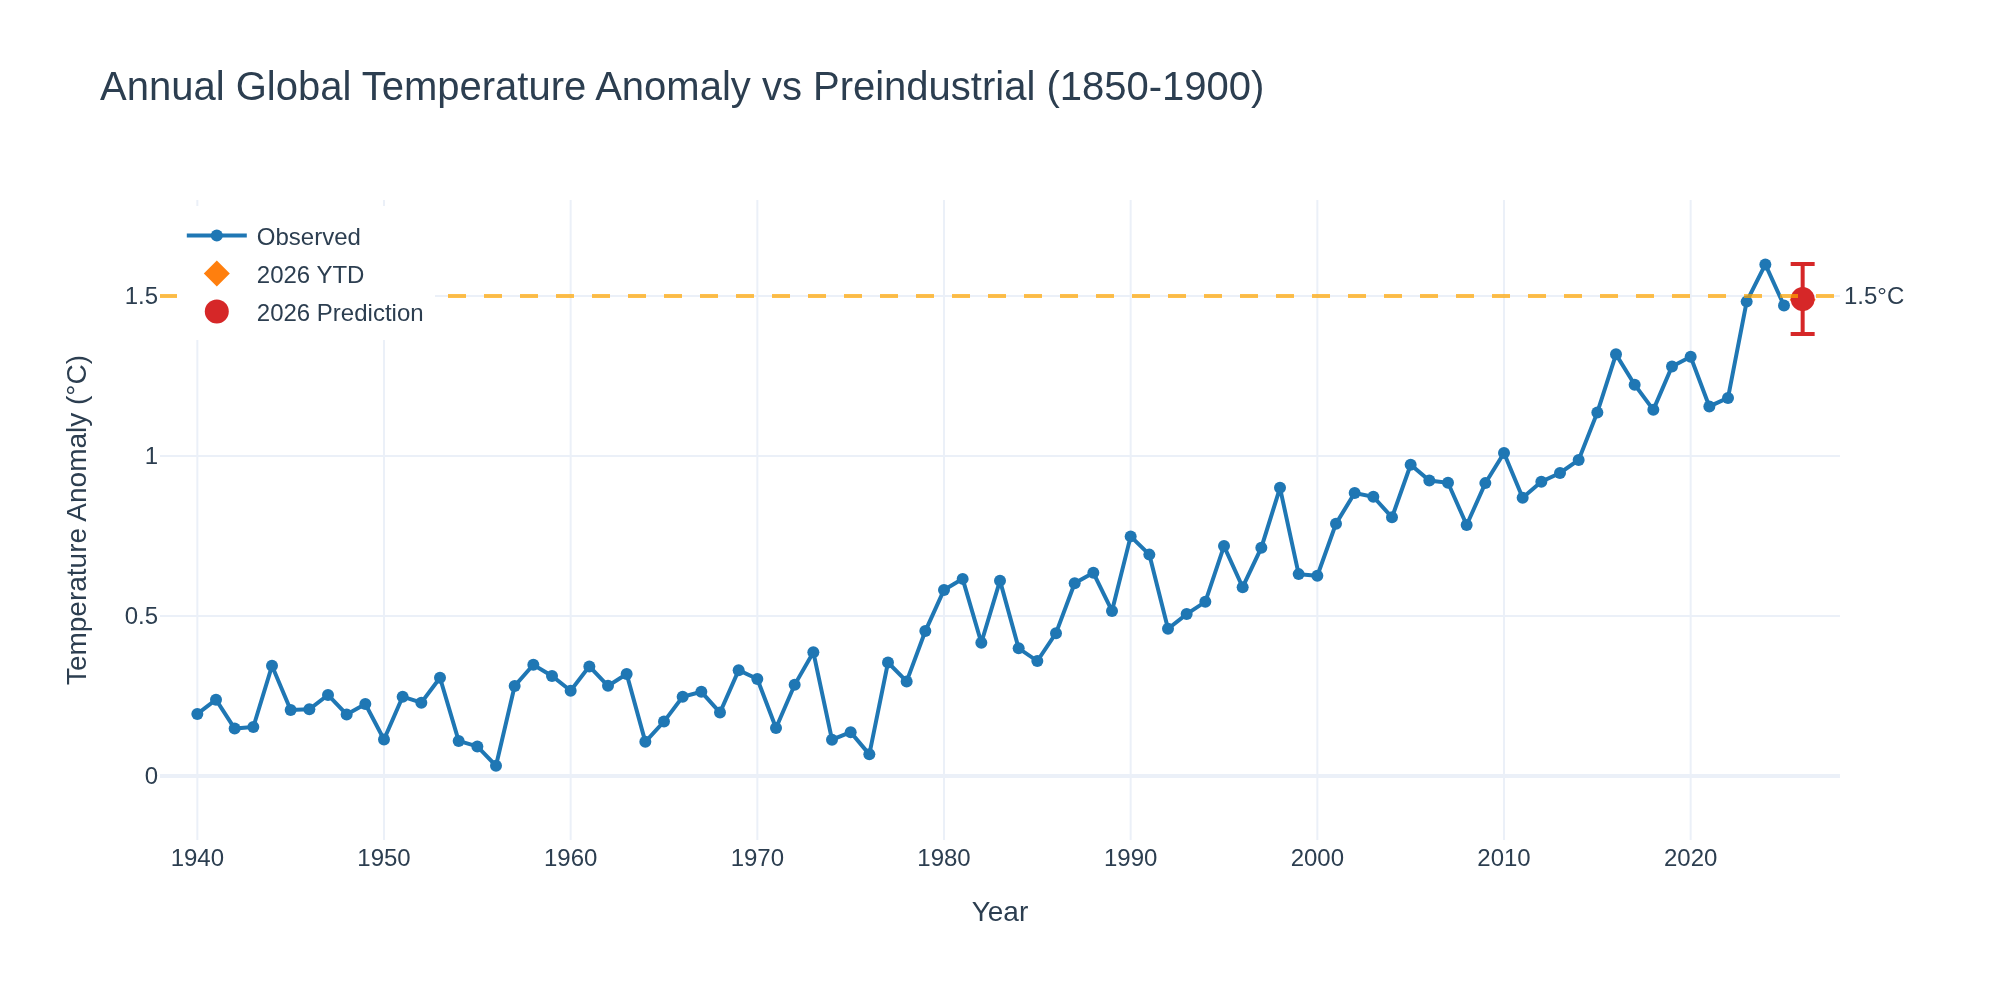
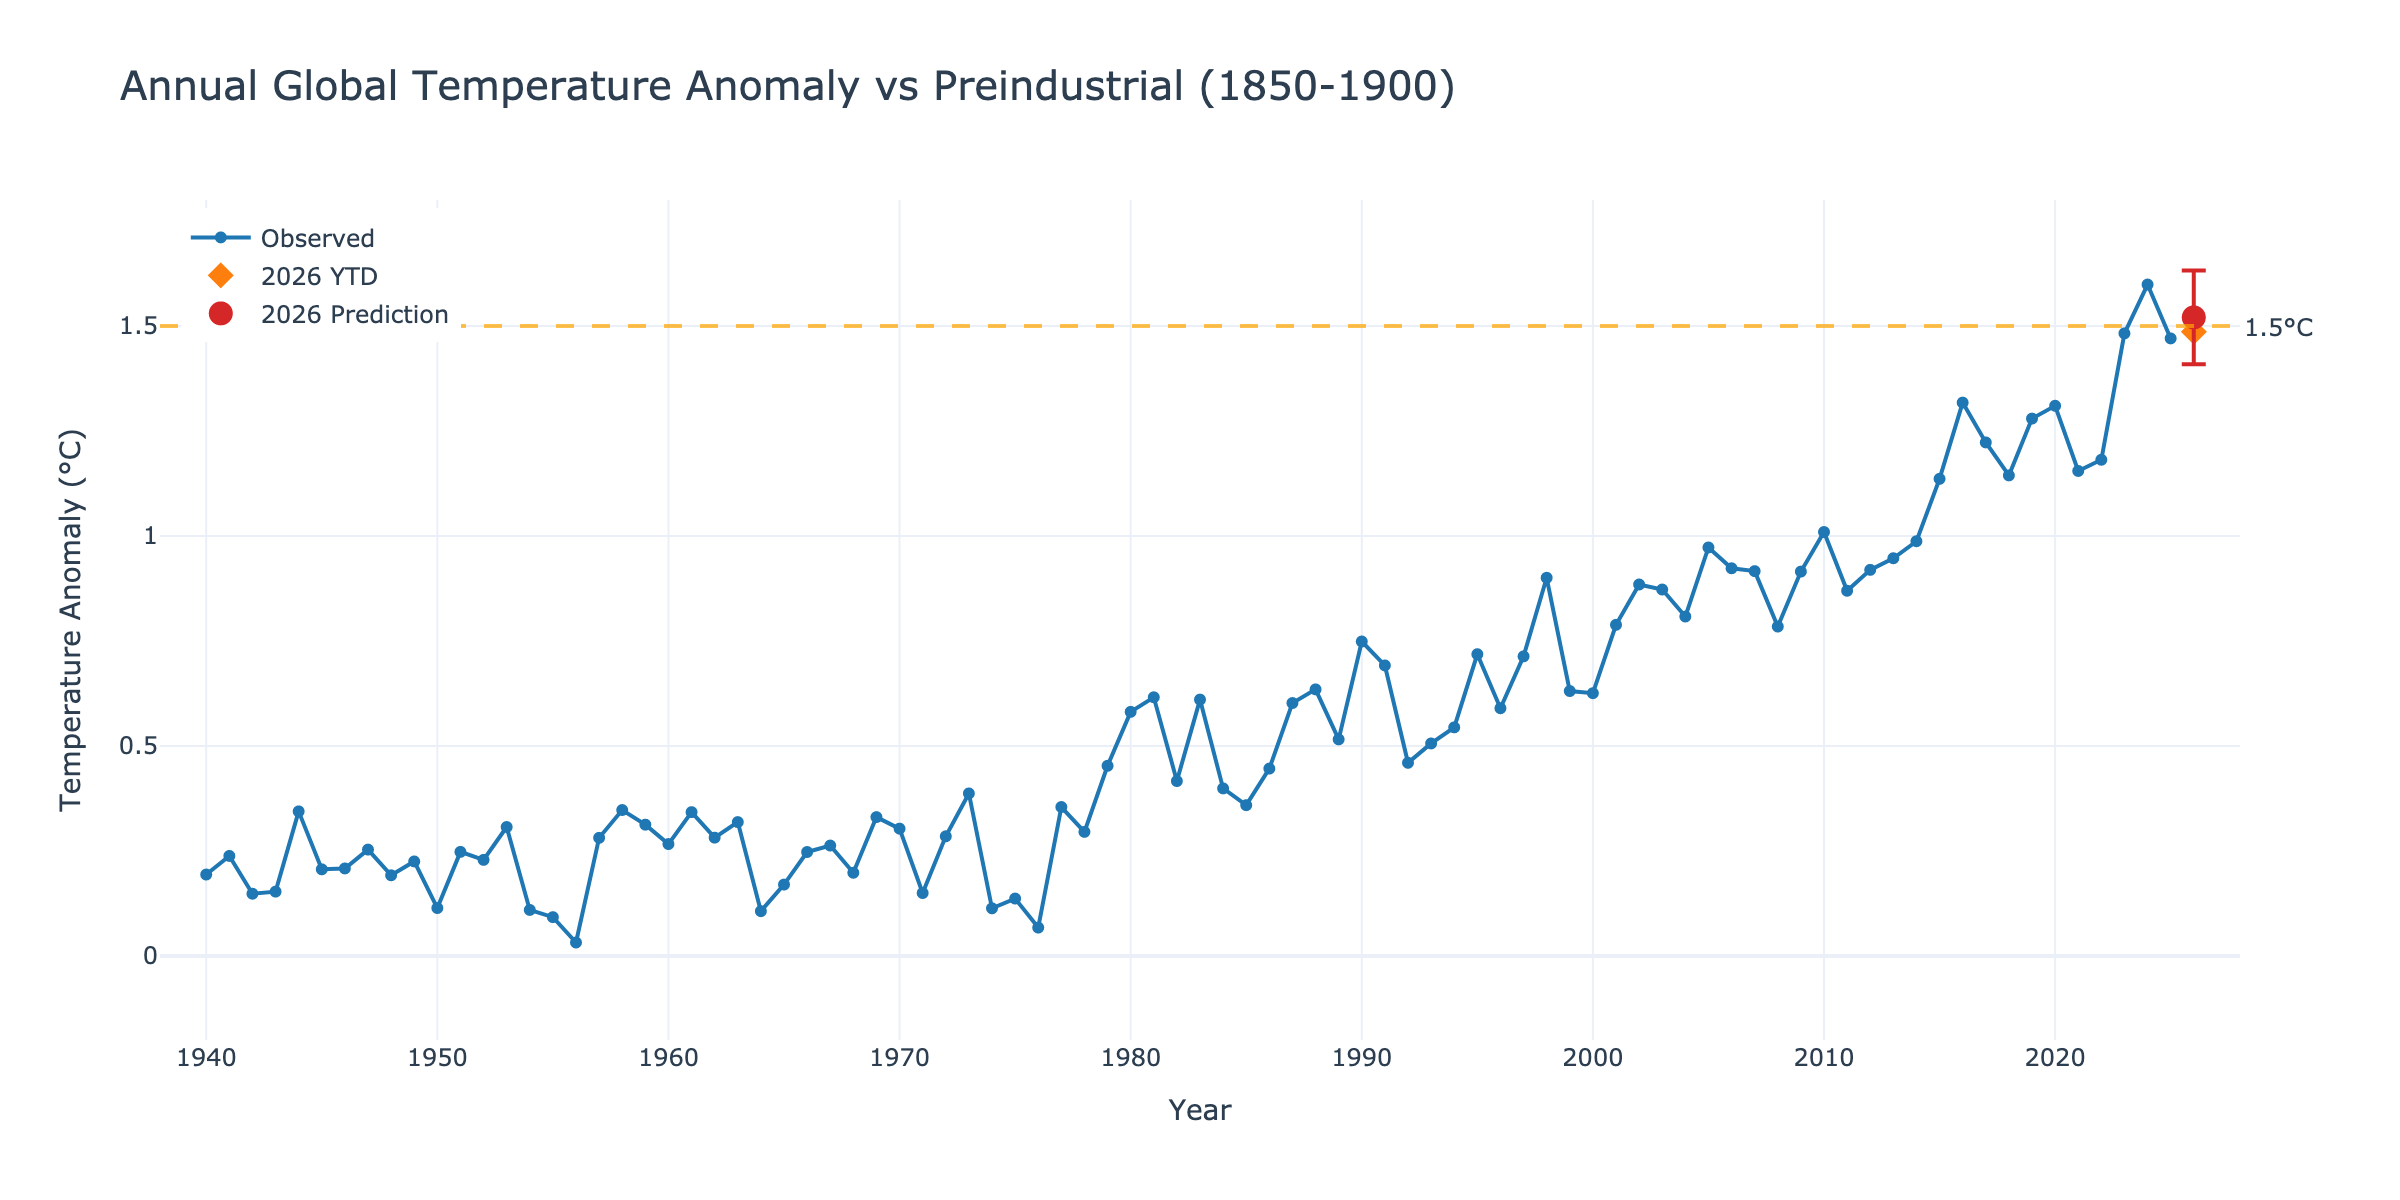
Use live ENSO median for annual prediction + static images
- run.py now uses build_enso_combined (with obs_df) for static image
  generation instead of the stale enso_combined.csv
- Regenerated annual prediction image with updated ENSO median
  (1.53°C ± 0.05°C for 2026)

diff --git a/run.py b/run.py
@@ -181,8 +181,8 @@ def update_data(force: bool = False) -> None:
         enso_proj = None
         try:
             from src.enso_plots import load_enso_forecast_data, build_enso_combined
-            ef, _, oni = load_enso_forecast_data()
-            enso_proj = build_enso_combined(oni, ef)
+            ef, eo, oni = load_enso_forecast_data()
+            enso_proj = build_enso_combined(oni, ef, eo)
         except Exception as enso_err:
             logger.warning(f"Could not load multi-model ENSO, falling back to combined: {enso_err}")
             if enso_file.exists():
@@ -205,12 +205,18 @@ def update_data(force: bool = False) -> None:
         source = DATA_SOURCES["era5_global"]
         df = load_or_fetch_data(source["url"], source["local_file"])
 
-        # Load ENSO data
+        # Load ENSO data from live multi-model forecast
         enso_df = None
-        enso_file = DATA_DIR / "enso_combined.csv"
-        if enso_file.exists():
-            enso_df = pd.read_csv(enso_file)
-            enso_df['date'] = pd.to_datetime(enso_df['date'])
+        try:
+            from src.enso_plots import load_enso_forecast_data, build_enso_combined
+            ef, eo, oni = load_enso_forecast_data()
+            enso_df = build_enso_combined(oni, ef, eo)
+        except Exception as enso_err:
+            logger.warning(f"Could not load multi-model ENSO for images: {enso_err}")
+            enso_file = DATA_DIR / "enso_combined.csv"
+            if enso_file.exists():
+                enso_df = pd.read_csv(enso_file)
+                enso_df['date'] = pd.to_datetime(enso_df['date'])
 
         # Generate all static images
         assets_dir = Path(__file__).parent / 'assets' / 'images'